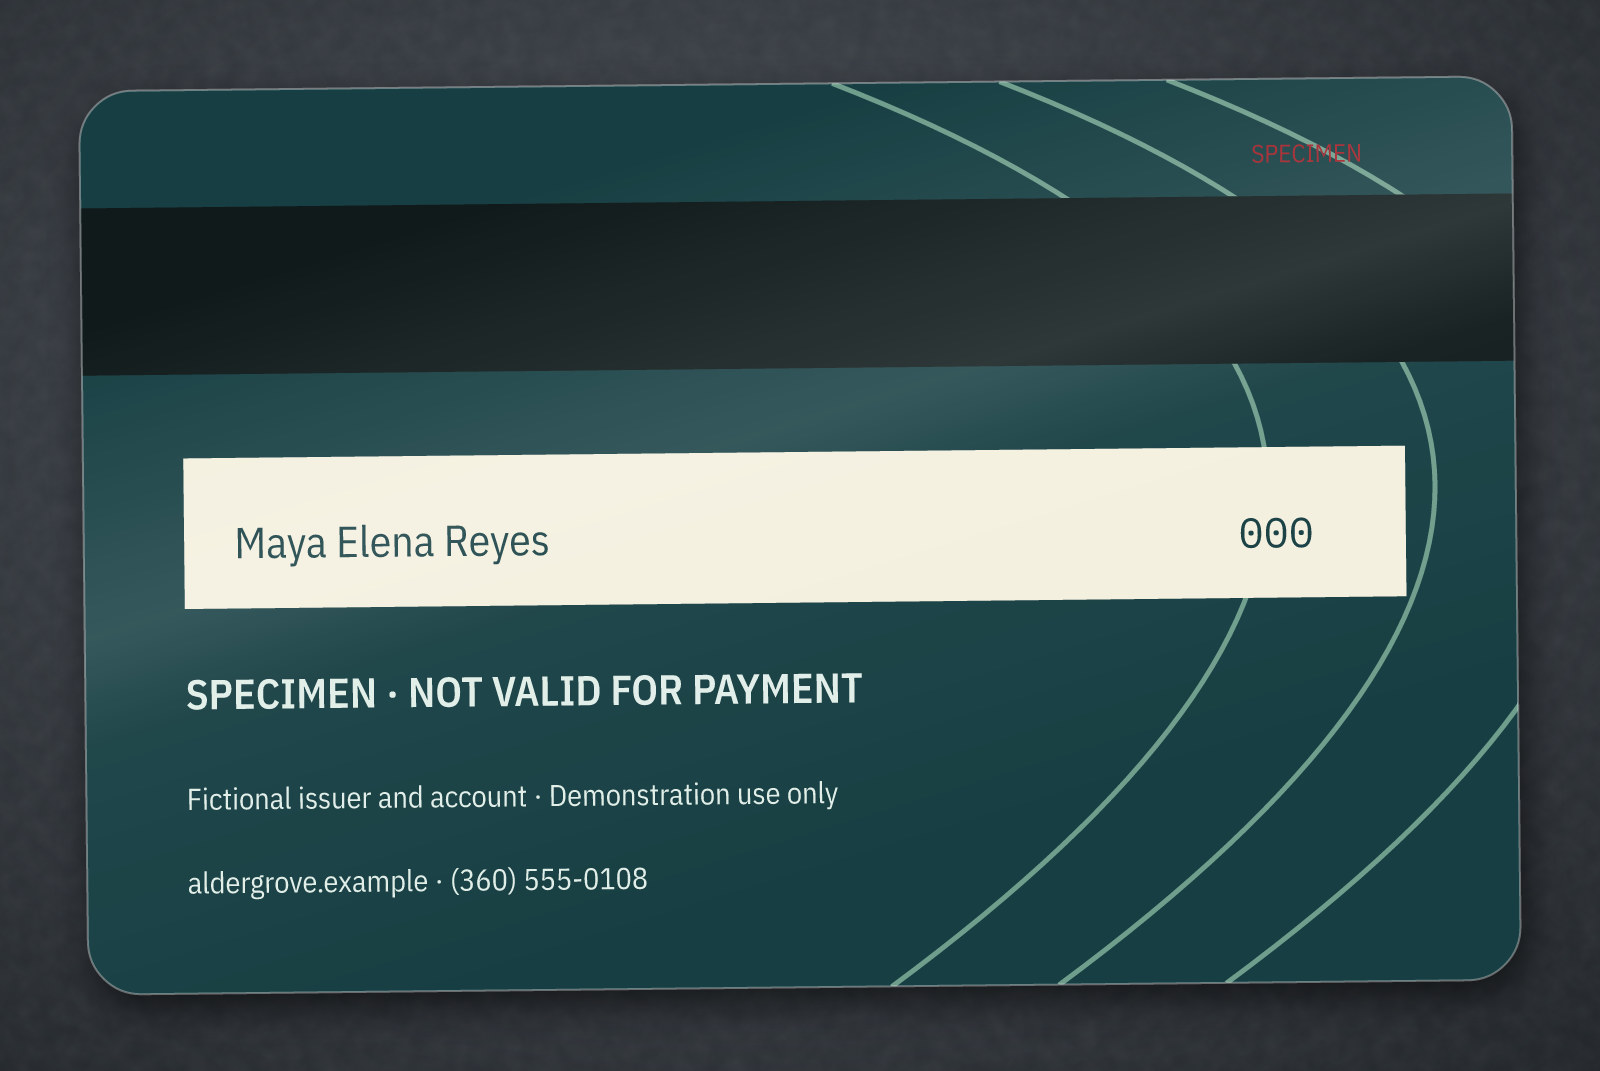
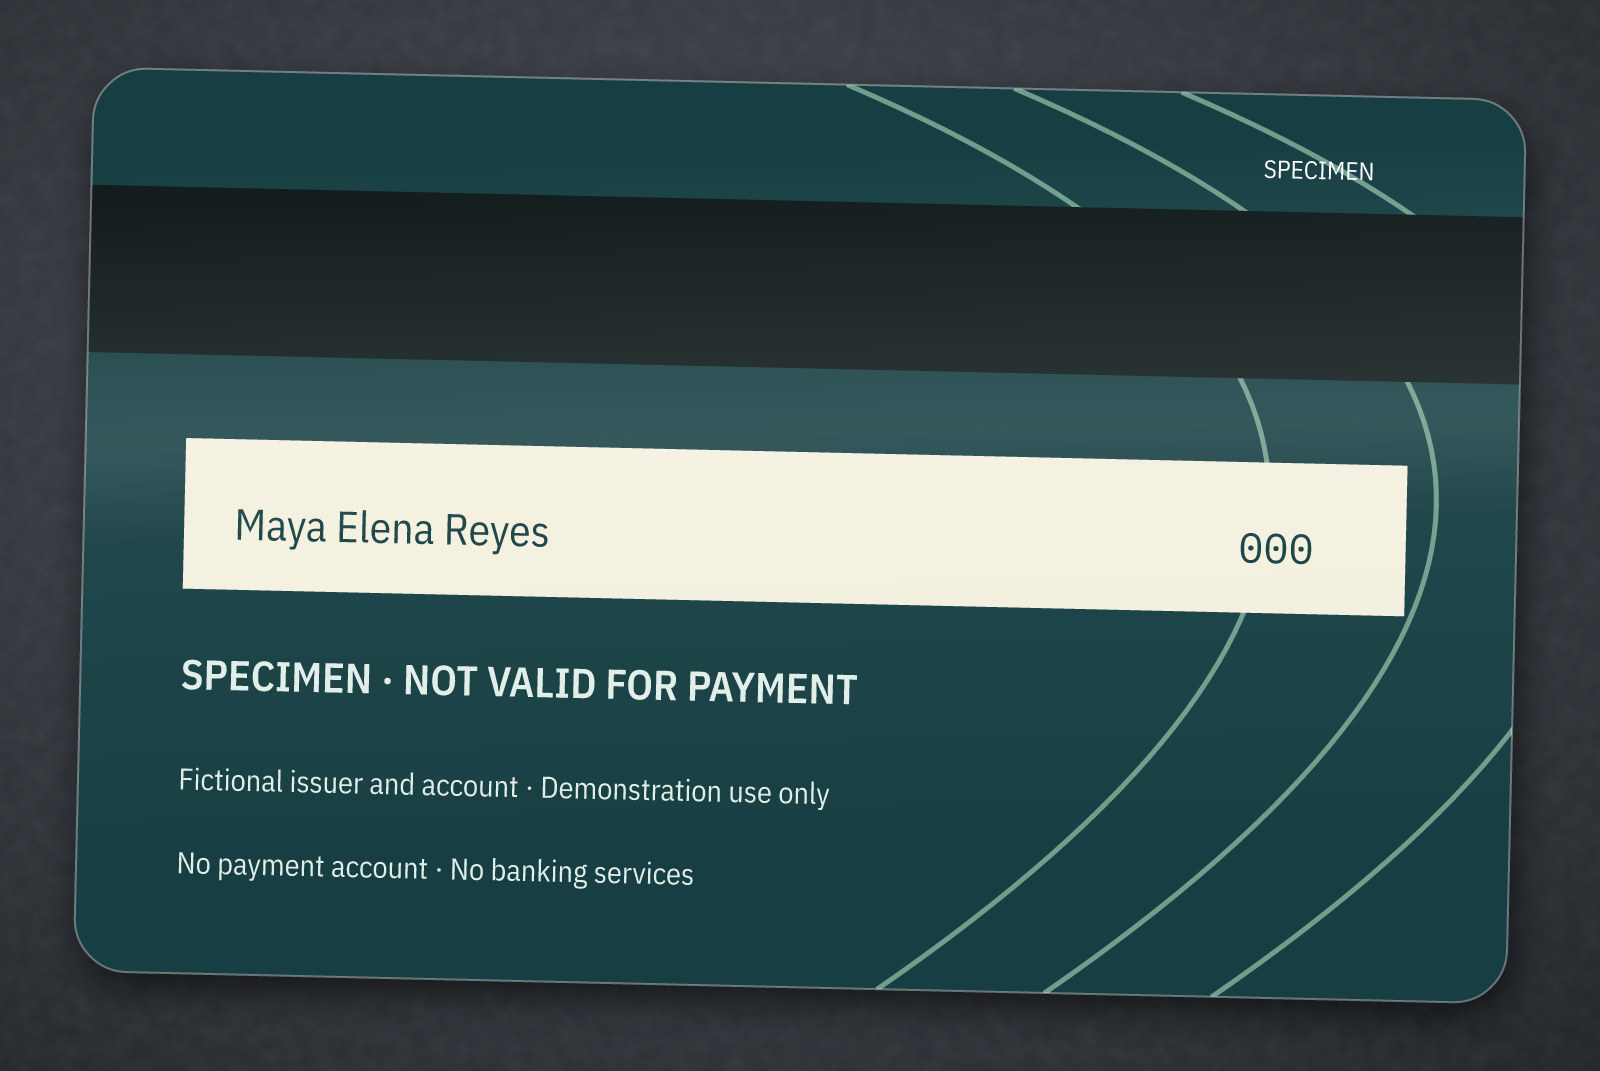
fix: address wallet document review findings

diff --git a/src/canon/validation/walletDocuments.test.ts b/src/canon/validation/walletDocuments.test.ts
@@ -1,7 +1,8 @@
 import { expect, test } from "bun:test";
 import { world } from "../../../canon/world";
-import { findCharacter } from "../derive";
+import { documentExpirations, findCharacter } from "../derive";
 import { checkDevice } from "./device";
+import { checkDocuments } from "./documents";
 import { checkWalletDocuments } from "./walletDocuments";
 
 const maya = findCharacter(world, "maya-reyes");
@@ -21,12 +22,10 @@ test("rejects invalid issue dates and certificates issued before birth", () => {
 });
 
 test("rejects expired cards but accepts the entire expiration month", () => {
-  expect(checkWalletDocuments({ ...world, asOf: "2028-06-30" }, maya)).toEqual(
-    [],
+  expect(checkDocuments({ ...world, asOf: "2028-06-30" }, maya)).toEqual([]);
+  expect(checkDocuments({ ...world, asOf: "2028-07-01" }, maya)).toContain(
+    "maya-reyes credit card ending in 4242 expired on 2028-07-01; renew it in canon",
   );
-  expect(
-    checkWalletDocuments({ ...world, asOf: "2028-07-01" }, maya),
-  ).toContain("maya-reyes: credit card expired; renew it in canon");
 });
 
 test("rejects card numbers outside the fictional range and invalid validity", () => {
@@ -59,5 +58,21 @@ test("wallet documents must be held by the owner", () => {
   );
   expect(problems).toContain(
     "the wallet lists a credit_card maya-reyes does not hold",
+  );
+});
+
+test("freshness includes credit cards and rolls December into January", () => {
+  const december = {
+    ...maya,
+    documents: { creditCard: { ...card, issued: "2025-12-15" } },
+  };
+  expect(documentExpirations(world, december)).toEqual([
+    { label: "maya-reyes credit card ending in 4242", expires: "2029-01-01" },
+  ]);
+  expect(checkDocuments({ ...world, asOf: "2028-12-31" }, december)).toEqual(
+    [],
+  );
+  expect(checkDocuments({ ...world, asOf: "2029-01-01" }, december)).toContain(
+    "maya-reyes credit card ending in 4242 expired on 2029-01-01; renew it in canon",
   );
 });

diff --git a/src/genesis/walletDocuments.ts b/src/genesis/walletDocuments.ts
@@ -10,14 +10,20 @@ import {
 import { CARD, type CardArt } from "../render/card";
 import { creditCardBack, creditCardFront } from "../render/creditCard";
 import { rasterize, toJpeg } from "../render/raster";
-import { framedDocumentSvg } from "../render/scanFrame";
+import { type FrameSize, framedDocumentSvg } from "../render/scanFrame";
 import { el } from "../render/svg";
+import {
+  CARD_WIDTH_PX,
+  capture,
+  JPEG_QUALITY,
+  PAGE_WIDTH_PX,
+} from "./documentCapture";
 
 export function renderWalletDocuments(world: World, character: Character) {
   const { birthCertificate, creditCard } = character.documents;
   const render = (
     art: CardArt,
-    size: typeof CARD | typeof CERTIFICATE_PAGE,
+    size: FrameSize,
     clipId: string,
     width: number,
   ) =>
@@ -42,13 +48,12 @@ export function renderWalletDocuments(world: World, character: Character) {
           {
             clipId,
             margin: 5,
-            rotation: -0.6,
-            glareAngle: 20,
+            ...capture(`${character.id}:${clipId}`),
           },
         ),
         width,
       ),
-      88,
+      JPEG_QUALITY,
     );
   return {
     ...(birthCertificate
@@ -59,7 +64,7 @@ export function renderWalletDocuments(world: World, character: Character) {
             ),
             CERTIFICATE_PAGE,
             "birth-certificate",
-            2000,
+            PAGE_WIDTH_PX,
           ),
         }
       : {}),
@@ -69,13 +74,13 @@ export function renderWalletDocuments(world: World, character: Character) {
             creditCardFront(creditCardFields(character, creditCard)),
             CARD,
             "credit-front",
-            1600,
+            CARD_WIDTH_PX,
           ),
           creditCardBack: render(
             creditCardBack(creditCardFields(character, creditCard)),
             CARD,
             "credit-back",
-            1600,
+            CARD_WIDTH_PX,
           ),
         }
       : {}),

diff --git a/src/genesis/documents.ts b/src/genesis/documents.ts
@@ -5,7 +5,7 @@ import {
   passportExpiration,
 } from "../canon/derive";
 import type { Character, World } from "../canon/types";
-import { CARD, type CardArt, seededRandom } from "../render/card";
+import { CARD, type CardArt } from "../render/card";
 import { driversLicenseBack } from "../render/drivers-license/back";
 import { driversLicenseFront } from "../render/drivers-license/front";
 import { passportDataPage } from "../render/passport/dataPage";
@@ -13,13 +13,15 @@ import { DATA_PAGE } from "../render/passport/types";
 import type { Portrait } from "../render/portrait";
 import { rasterize, toJpeg } from "../render/raster";
 import { framedDocumentSvg } from "../render/scanFrame";
+import {
+  CARD_WIDTH_PX,
+  capture,
+  JPEG_QUALITY,
+  PAGE_WIDTH_PX,
+} from "./documentCapture";
 import { renderWalletDocuments } from "./walletDocuments";
 
 // Renders a character's identity documents as photographed JPEGs.
-
-const JPEG_QUALITY = 88;
-const CARD_WIDTH_PX = 1600;
-const PAGE_WIDTH_PX = 2000;
 
 export interface RenderedDocuments {
   readonly driversLicenseFront?: Uint8Array;
@@ -28,15 +30,6 @@ export interface RenderedDocuments {
   readonly birthCertificate?: Uint8Array;
   readonly creditCardFront?: Uint8Array;
   readonly creditCardBack?: Uint8Array;
-}
-
-/** Each capture gets its own small tilt and glare, fixed per character. */
-function capture(seed: string) {
-  const random = seededRandom(seed);
-  return {
-    glareAngle: Math.round(random() * 60) - 10,
-    rotation: Math.round((random() * 2.6 - 1.3) * 10) / 10,
-  };
 }
 
 function renderLicense(

diff --git a/src/render/creditCard.ts b/src/render/creditCard.ts
@@ -1,5 +1,5 @@
 import type { creditCardFields } from "../canon/documentFields";
-import { CARD, type CardArt, SPECIMEN_RED, specimenMark } from "./card";
+import { CARD, type CardArt } from "./card";
 import { FONT } from "./fonts";
 import { el, text } from "./svg";
 
@@ -30,7 +30,7 @@ export function creditCardFront(fields: Fields): CardArt {
     body: [
       background(),
       text(6, 10, fields.issuer, { ...label, size: 4, weight: 600 }),
-      text(6, 16, "EVERYDAY · SPECIMEN CREDIT", {
+      text(6, 16, "SPECIMEN CREDIT CARD", {
         ...label,
         letterSpacing: 0.4,
       }),
@@ -59,7 +59,12 @@ export function creditCardFront(fields: Fields): CardArt {
       text(6, 48, fields.nameOnCard.toUpperCase(), { ...label, size: 2.5 }),
       text(64, 43, "VALID THRU", { ...label, size: 1.5 }),
       text(64, 48, month, { ...label, family: FONT.mono, size: 2.6 }),
-      specimenMark(51, 27, 8),
+      text(27, 27, "SPECIMEN", {
+        ...label,
+        size: 6,
+        weight: 600,
+        opacity: 0.7,
+      }),
     ].join(""),
   };
 }
@@ -89,8 +94,8 @@ export function creditCardBack(fields: Fields): CardArt {
         "Fictional issuer and account · Demonstration use only",
         label,
       ),
-      text(6, 48, "aldergrove.example · (360) 555-0108", label),
-      text(70, 5, "SPECIMEN", { ...label, fill: SPECIMEN_RED, size: 1.5 }),
+      text(6, 48, "No payment account · No banking services", label),
+      text(70, 5, "SPECIMEN", { ...label, fill: "#ffffff", size: 1.5 }),
     ].join(""),
   };
 }

diff --git a/src/render/walletDocuments.test.ts b/src/render/walletDocuments.test.ts
@@ -1,0 +1,30 @@
+import { expect, test } from "bun:test";
+import { birthCertificatePage } from "./birthCertificate";
+import { creditCardBack, creditCardFront } from "./creditCard";
+
+test("certificate artwork uses the supplied registry without another jurisdiction", () => {
+  const art = birthCertificatePage({
+    fullName: "Example Person",
+    certificateNumber: "BC-42",
+    dateOfBirth: "1991-03-14",
+    placeOfBirth: "Example Harbor",
+    parentNames: "Example Parent",
+    issuingAuthority: "Example Harbor Civil Registry",
+    dateIssued: "1991-03-20",
+  });
+  expect(art.body).toContain("Example Harbor Civil Registry");
+  expect(art.body).not.toContain("UTOPIA");
+});
+
+test("card artwork does not invent an issuer's contact details or product", () => {
+  const fields = {
+    issuer: "Example Bank",
+    cardNumber: "0000 0000 0000 4242",
+    cvvCode: "000",
+    nameOnCard: "Example Person",
+    expirationDate: "2028-06",
+  };
+  expect(creditCardFront(fields).body).toContain("Example Bank");
+  expect(creditCardFront(fields).body).not.toContain("EVERYDAY");
+  expect(creditCardBack(fields).body).not.toContain("aldergrove.example");
+});

diff --git a/src/canon/validation/walletDocuments.ts b/src/canon/validation/walletDocuments.ts
@@ -1,5 +1,4 @@
 import { compareDates, isIsoDate } from "../dates";
-import { creditCardFields } from "../documentFields";
 import type { Character, CreditCard, World } from "../types";
 
 export function checkWalletDocuments(
@@ -34,13 +33,11 @@ export function checkWalletDocuments(
       `${character.id}: birth certificate needs a number and issuing authority`,
     );
   }
-  if (creditCard)
-    problems.push(...checkCreditCard(world, character, creditCard));
+  if (creditCard) problems.push(...checkCreditCard(character, creditCard));
   return problems;
 }
 
 function checkCreditCard(
-  world: World,
   character: Character,
   creditCard: CreditCard,
 ): string[] {
@@ -59,12 +56,6 @@ function checkCreditCard(
     problems.push(
       `${character.id}: credit card needs an issuer and validity of 1–10 years`,
     );
-  } else if (
-    isIsoDate(creditCard.issued) &&
-    creditCardFields(character, creditCard).expirationDate <
-      world.asOf.slice(0, 7)
-  ) {
-    problems.push(`${character.id}: credit card expired; renew it in canon`);
   }
   return problems;
 }

diff --git a/src/render/birthCertificate.ts b/src/render/birthCertificate.ts
@@ -22,7 +22,7 @@ export function birthCertificatePage(
     ["Parent(s) recorded", fields.parentNames],
     ["Certificate number", fields.certificateNumber],
     ["Date issued", fields.dateIssued],
-  ];
+  ] as const;
   return {
     defs: "",
     body: [
@@ -45,7 +45,7 @@ export function birthCertificatePage(
         stroke: ink,
         "stroke-width": 0.15,
       }),
-      text(74, 22, "UTOPIA · CIVIL RECORDS", {
+      text(74, 22, "CIVIL RECORDS", {
         ...label,
         anchor: "middle",
         letterSpacing: 0.8,
@@ -57,7 +57,7 @@ export function birthCertificatePage(
         anchor: "middle",
       }),
       text(74, 43, fields.issuingAuthority, { ...label, anchor: "middle" }),
-      ...rows.map(([name = "", content = ""], index) => {
+      ...rows.map(([name, content], index) => {
         const y = 59 + index * 17;
         return (
           text(17, y, name.toUpperCase(), label) +

diff --git a/src/site/build.test.ts b/src/site/build.test.ts
@@ -20,6 +20,13 @@ beforeAll(() => {
 afterAll(() => rmSync(root, { recursive: true, force: true }));
 
 describe("asset gallery", () => {
+  test("counts every rendered document image", () => {
+    const count = gallery.assets.filter((asset) =>
+      asset.path.startsWith("documents/"),
+    ).length;
+    expect(html).toContain(`<dt>Document images</dt><dd>${count}</dd>`);
+  });
+
   test("publishes every manifest asset unchanged with a download on the page", () => {
     for (const asset of gallery.assets) {
       expect(readFileSync(join(output, "genesis", asset.path))).toEqual(

diff --git a/src/site/page.ts b/src/site/page.ts
@@ -23,13 +23,9 @@ function downloads(gallery: Gallery): string {
 export function galleryPage(gallery: Gallery): string {
   const { canon } = gallery;
   const owner = canon.characters.find((person) => person.id === canon.owner);
-  const documentCount = canon.characters.reduce(
-    (count, person) =>
-      count +
-      (person.files.driversLicenseFront ? 2 : 0) +
-      (person.files.passport ? 1 : 0),
-    0,
-  );
+  const documentCount = gallery.assets.filter((asset) =>
+    asset.path.startsWith("documents/"),
+  ).length;
   return `<!doctype html>
 <html lang="en">
 <head>

diff --git a/src/genesis/documentCapture.ts b/src/genesis/documentCapture.ts
@@ -1,0 +1,14 @@
+import { seededRandom } from "../render/card";
+
+export const JPEG_QUALITY = 88;
+export const CARD_WIDTH_PX = 1600;
+export const PAGE_WIDTH_PX = 2000;
+
+/** Each capture gets its own small tilt and glare, fixed per character. */
+export function capture(seed: string) {
+  const random = seededRandom(seed);
+  return {
+    glareAngle: Math.round(random() * 60) - 10,
+    rotation: Math.round((random() * 2.6 - 1.3) * 10) / 10,
+  };
+}

diff --git a/docs/tearleads.md b/docs/tearleads.md
@@ -34,6 +34,14 @@ asserts on: a contact's display name, the first note's title and body line,
 and each wallet document's title and image count. Optional wallet kinds are
 omitted when the device does not select them.
 
+## Integration verification
+
+The expanded seed was tested with tearleads' `continuitySeed.test.ts` against
+its birth certificate implementation: the real SDK built and decoded the
+backup with all four document kinds, their projected titles, and all 13 image
+blobs (seven contact avatars and six document images). The test uses the same
+attachment slots consumed by the document editors.
+
 ## Adopting it in tearleads
 
 Update the commit pin for `@a2f0/continuity` in tearleads' root `package.json`
